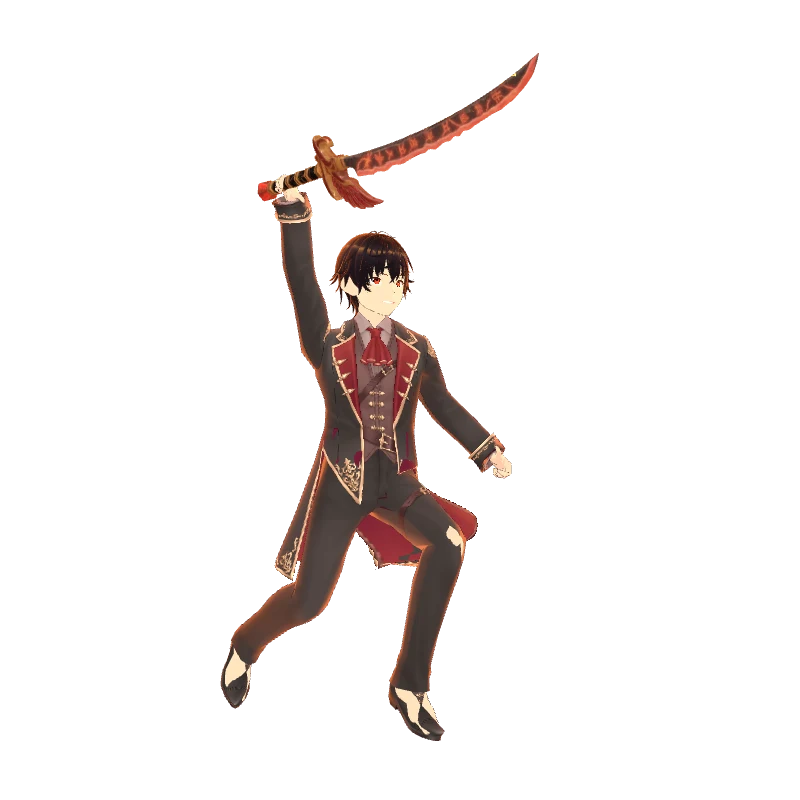
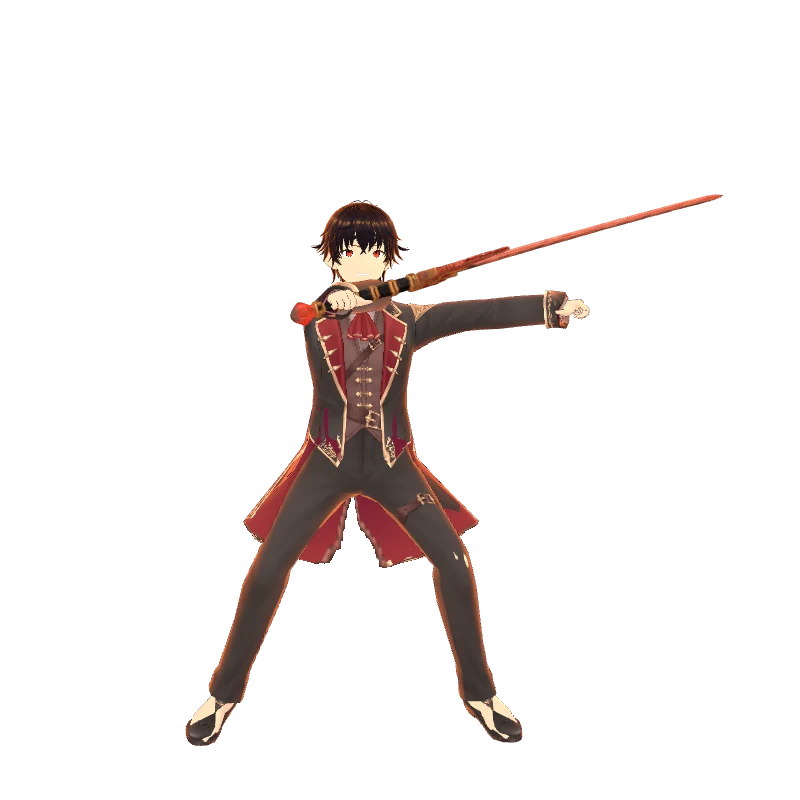
参考画像に合わせてレイガ・ガンドウ・ライカ・フウカの決めポーズを作り直し (v1.7.4)
- 決めポーズ用に、足を左右に開く構え(wide)と武器を柄の軸で回す指定(roll)を追加
- レイガ: 正面で刀を水平に構える / ガンドウ: 両手で大槌を振りかぶる
- ライカ: 片方を頭上、片方を低く構えて踏み込む / フウカ: 頭の後ろと胸の前で扇を広げる

Changed region(s): [[0.2188, 0.0625, 0.875, 0.9375], [0.875, 0.2188, 0.9062, 0.25]]

diff --git a/src/poses.js b/src/poses.js
@@ -3,11 +3,12 @@
 //   tw: 上体のひねり  lean: 前傾  crouch: 腰を落とす  stance: 足の開き  side: 横への傾き  head: 首の向き
 // cam: 撮影の向き(yaw: 横回り, pitch: 下からあおる角度)
 export const HERO_POSES = {
-  reiga: { cand: 1, cam: { yaw: -30, pitch: -10 } },
+  // 参考画像に合わせたポーズ(p を直接指定) / それ以外は POSE_CANDS の番号(cand)
+  reiga: { p: { az: 15, el: 5, bend: 110, wr: -140, azL: 80, elL: 5, bendL: 10, tw: 0, lean: 5, crouch: 0.6, stance: 0, head: 0, wide: 0.5 }, cam: { yaw: -8, pitch: -6 } },
   setsuna: { cand: 0, cam: { yaw: -30, pitch: -10 } },
-  raika: { cand: 1, cam: { yaw: -30, pitch: -10 } },
-  gandou: { cand: 2, cam: { yaw: -30, pitch: -12 } },
-  fuuka: { cand: 2, cam: { yaw: -30, pitch: -10 } },
+  raika: { p: { az: 15, el: -15, bend: 85, wr: 80, azL: 25, elL: 105, bendL: 70, wrL: 135, tw: 20, lean: 20, crouch: 0.4, stance: 1.0, head: -20 }, cam: { yaw: -65, pitch: -8 } },
+  gandou: { p: { az: -35, el: 85, bend: 115, wr: 80, tw: -25, lean: 10, crouch: 0.5, stance: 0, wide: 0.45, head: 30 }, cam: { yaw: -20, pitch: -10 } },
+  fuuka: { p: { az: -35, el: 115, bend: 140, wr: 0, roll: 90, azL: -60, elL: 0, bendL: 60, wrL: -90, rollL: 90, tw: 10, lean: 0, crouch: 0.05, stance: 0.3, side: 6, head: -10 }, cam: { yaw: -10, pitch: -6 } },
   yomi: { cand: 1, cam: { yaw: 15, pitch: -10 } },
   zenova: { cand: 1, cam: { yaw: 15, pitch: -14 } },
 };
@@ -36,4 +37,4 @@ export const POSE_CANDS = {
 };
 
 // 採用したポーズの姿勢パラメータ
-export const heroPose = (id) => { const h = HERO_POSES[id]; return h ? { p: POSE_CANDS[id][h.cand], cam: h.cam } : null; };
+export const heroPose = (id) => { const h = HERO_POSES[id]; return h ? { p: h.p || POSE_CANDS[id][h.cand], cam: h.cam } : null; };

diff --git a/src/rig.js b/src/rig.js
@@ -130,6 +130,8 @@ export class Rig {
       tr = s * 0.95 * run - 0.12 * run; kr = (0.3 + 1.15 * Math.max(0, -c)) * run;
     } else if (!this.move && (mode === 'air' || mode === 'down' || mode === 'dead')) { tl = -0.35; kl = 0.6; tr = 0.1; kr = 0.3; }
     else { const st = p.stance; tl = -0.55 * st - sq; kl = 0.5 * st + sq * 2; tr = 0.5 * st - sq * 0.55; kr = 0.35 * st + sq * 1.35; splay = 0.05 + 0.1 * st; }
+    // 決めポーズ: 足を左右に大きく開いて腰を落とす(wide = 開く角度[ラジアン])
+    if (!this.move && mode === 'pose' && this.customPose && this.customPose.wide) { const w = this.customPose.wide; tl = tr = -sq * 0.7 - 0.05; kl = kr = sq * 1.5; splay = w; }
     const la = 1 - Math.exp(-(this.move ? 30 : 18) * dt), g = this.legs;
     g.tl += (tl - g.tl) * la; g.kl += (kl - g.kl) * la; g.tr += (tr - g.tr) * la; g.kr += (kr - g.kr) * la;
     J.legL.rotation.set(g.tl, 0, splay); J.shinL.rotation.x = g.kl;

diff --git a/src/vrmchar.js b/src/vrmchar.js
@@ -243,6 +243,9 @@ export class VrmBody {
     if (left) { rig.wBaseL.add(_v); rig.wTipL.add(_v); } else { rig.wBase.add(_v); rig.wTip.add(_v); }
     g.position.copy(root.worldToLocal(_w.clone()));
     g.quaternion.copy(q);
+    // 決めポーズ: 武器を柄の軸まわりに回す(扇の面を正面へ向けるなど)
+    const cp = rig && rig.mode === 'pose' && rig.customPose; const roll = cp && (left ? cp.rollL : cp.roll);
+    if (roll) g.rotateY(roll * Math.PI / 180);
   }
   // ツンツン頭: VRMの髪の上半分から、逆立つ毛束を生やす(髪と同じ色・頭の骨に付ける)
   _spikes() { this.spikeGrp = addSpikes(this.vrm, this.model.pal && this.model.pal.hair); }

diff --git a/tools/sweep.html b/tools/sweep.html
@@ -56,7 +56,7 @@ const shotAt = (label) => {
   }
 };
 if (Q.has('cand')) {
-  (POSE_CANDS[id] || []).forEach((p, i) => { rig.customPose = p; rig.setMode('pose'); for (let j = 0; j < 120; j++) { rig.update(1 / 60); vb.sync(1 / 60, rig); } shotAt('案' + (i + 1)); });
+  (Q.get('plist') ? JSON.parse(Q.get('plist')) : POSE_CANDS[id] || []).forEach((p, i) => { rig.customPose = p; rig.setMode('pose'); for (let j = 0; j < 120; j++) { rig.update(1 / 60); vb.sync(1 / 60, rig); } shotAt('案' + (i + 1)); });
 }
 for (const k of Q.has('cand') ? [] : moves) {
   const mv = pick(k); if (!mv) continue;

diff --git a/sw.js b/sw.js
@@ -1,6 +1,6 @@
 // サービスワーカー: 全ファイルをキャッシュしてオフラインでも遊べるようにする
 // ※ ゲームを更新したら CACHE の番号を上げてください(古いキャッシュが破棄されます)
-const CACHE = 'seiga-v1.7.3';
+const CACHE = 'seiga-v1.7.4';
 const FILES = [
   './', 'index.html', 'manifest.webmanifest', 'css/style.css', 'vendor/three.module.min.js',
   'icons/icon-192.png', 'icons/icon-512.png', 'icons/icon-maskable-512.png', 'icons/apple-touch-icon.png',

diff --git a/src/config.js b/src/config.js
@@ -4,7 +4,7 @@
 // 空のままでも、ゲーム内「設定」画面から個別にURLを入力できます。
 export const CLOUD_URL = 'https://script.google.com/macros/s/AKfycbwIXAdAaQbAvjuTPs3f40_3I8KxJB3mKbrFkAzfM-IuFDj_kmxqeDuisBGuqbjSZOJp1Q/exec';
 
-export const VERSION = '1.7.3';
+export const VERSION = '1.7.4';
 
 // VRoid のキャラ(VRM)。ファイルを vrm/ フォルダに入れ、武将ID: パス を書くと差し替わります
 // 武将ID: reiga / setsuna / raika / gandou / fuuka / yomi
